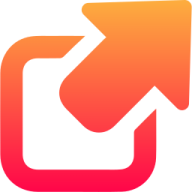
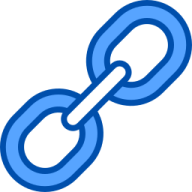
Add files via upload

diff --git a/index.html b/index.html
@@ -6,7 +6,7 @@
     <meta name="apple-mobile-web-app-capable" content="yes">
     <meta name="apple-mobile-web-app-title" content="Mes Liens">
     <title>Mes Liens</title>
[2 lines of base64/hex data omitted]
 	
     <link rel="preconnect" href="https://fonts.googleapis.com">
     <link rel="preconnect" href="https://fonts.gstatic.com" crossorigin="">
@@ -1978,7 +1978,7 @@
         // ── Icônes des modes de recherche (base64) ───────────────
         const SEARCH_MODE_ICONS = {
             liens:      document.querySelector('link[rel="icon"]')?.href || '',
[4 lines of base64/hex data omitted]
 		};